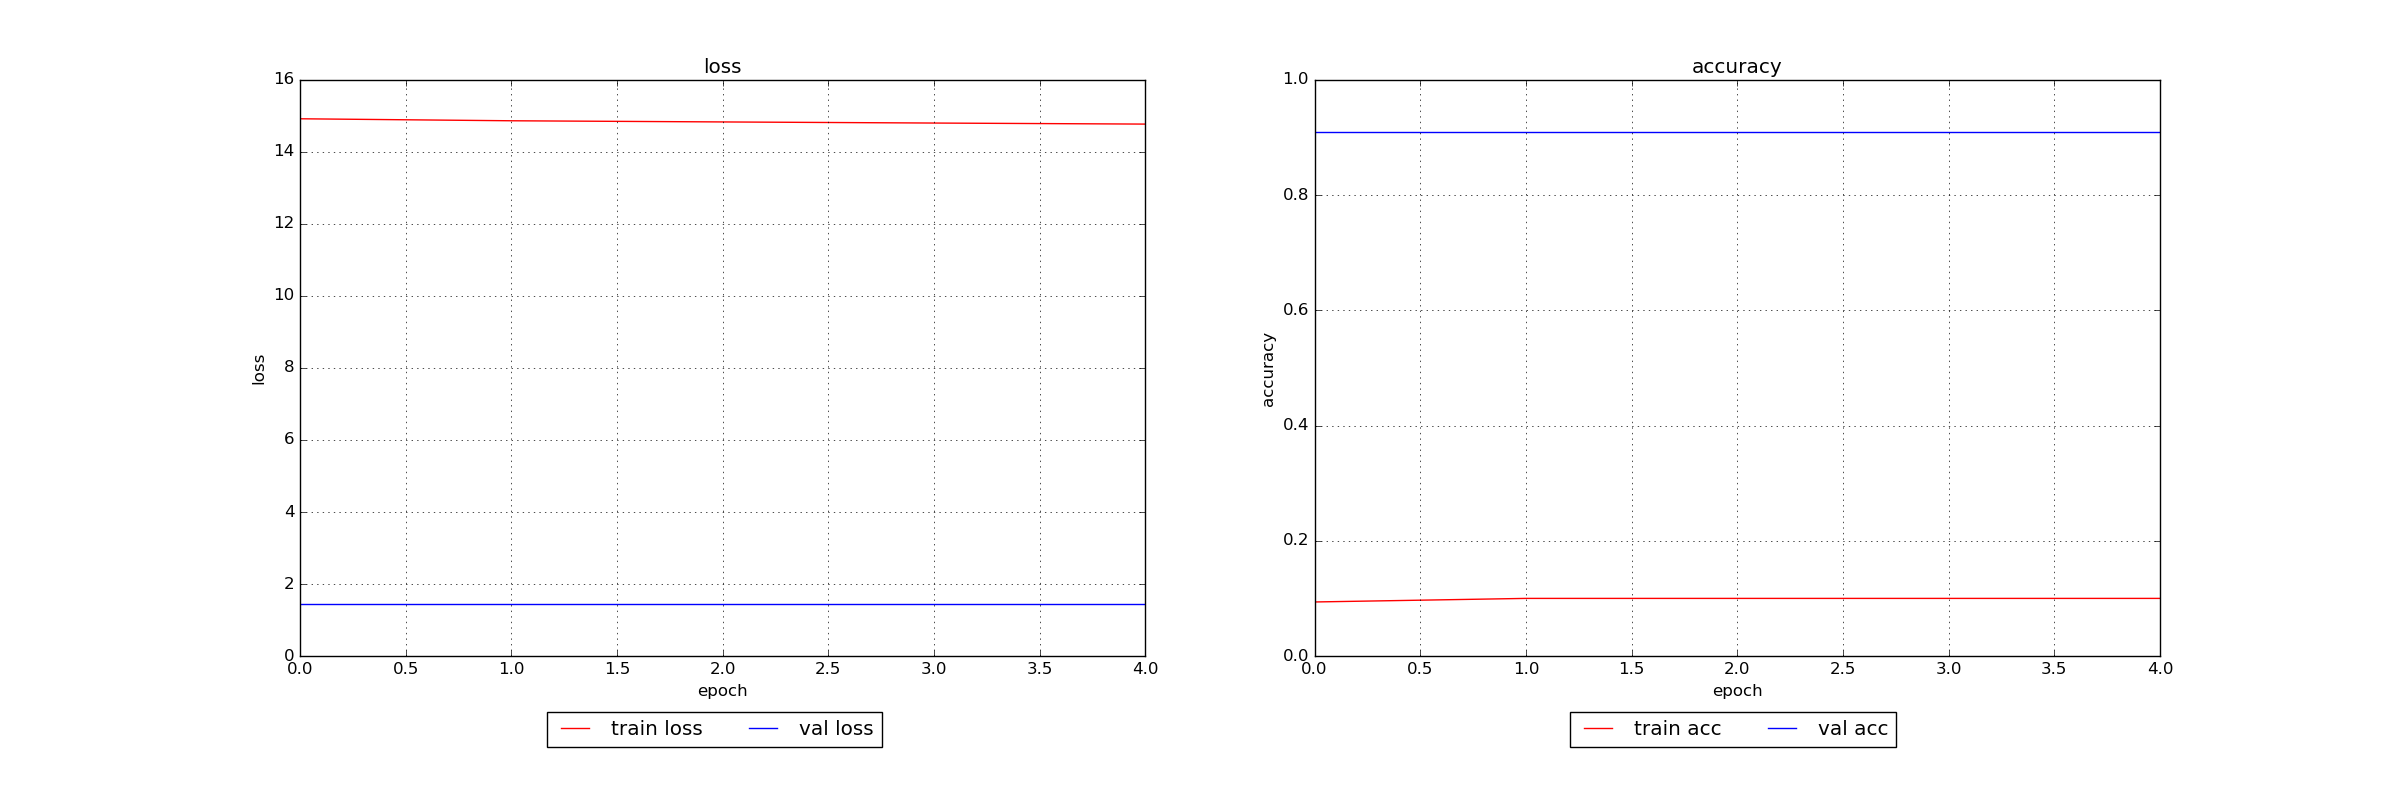
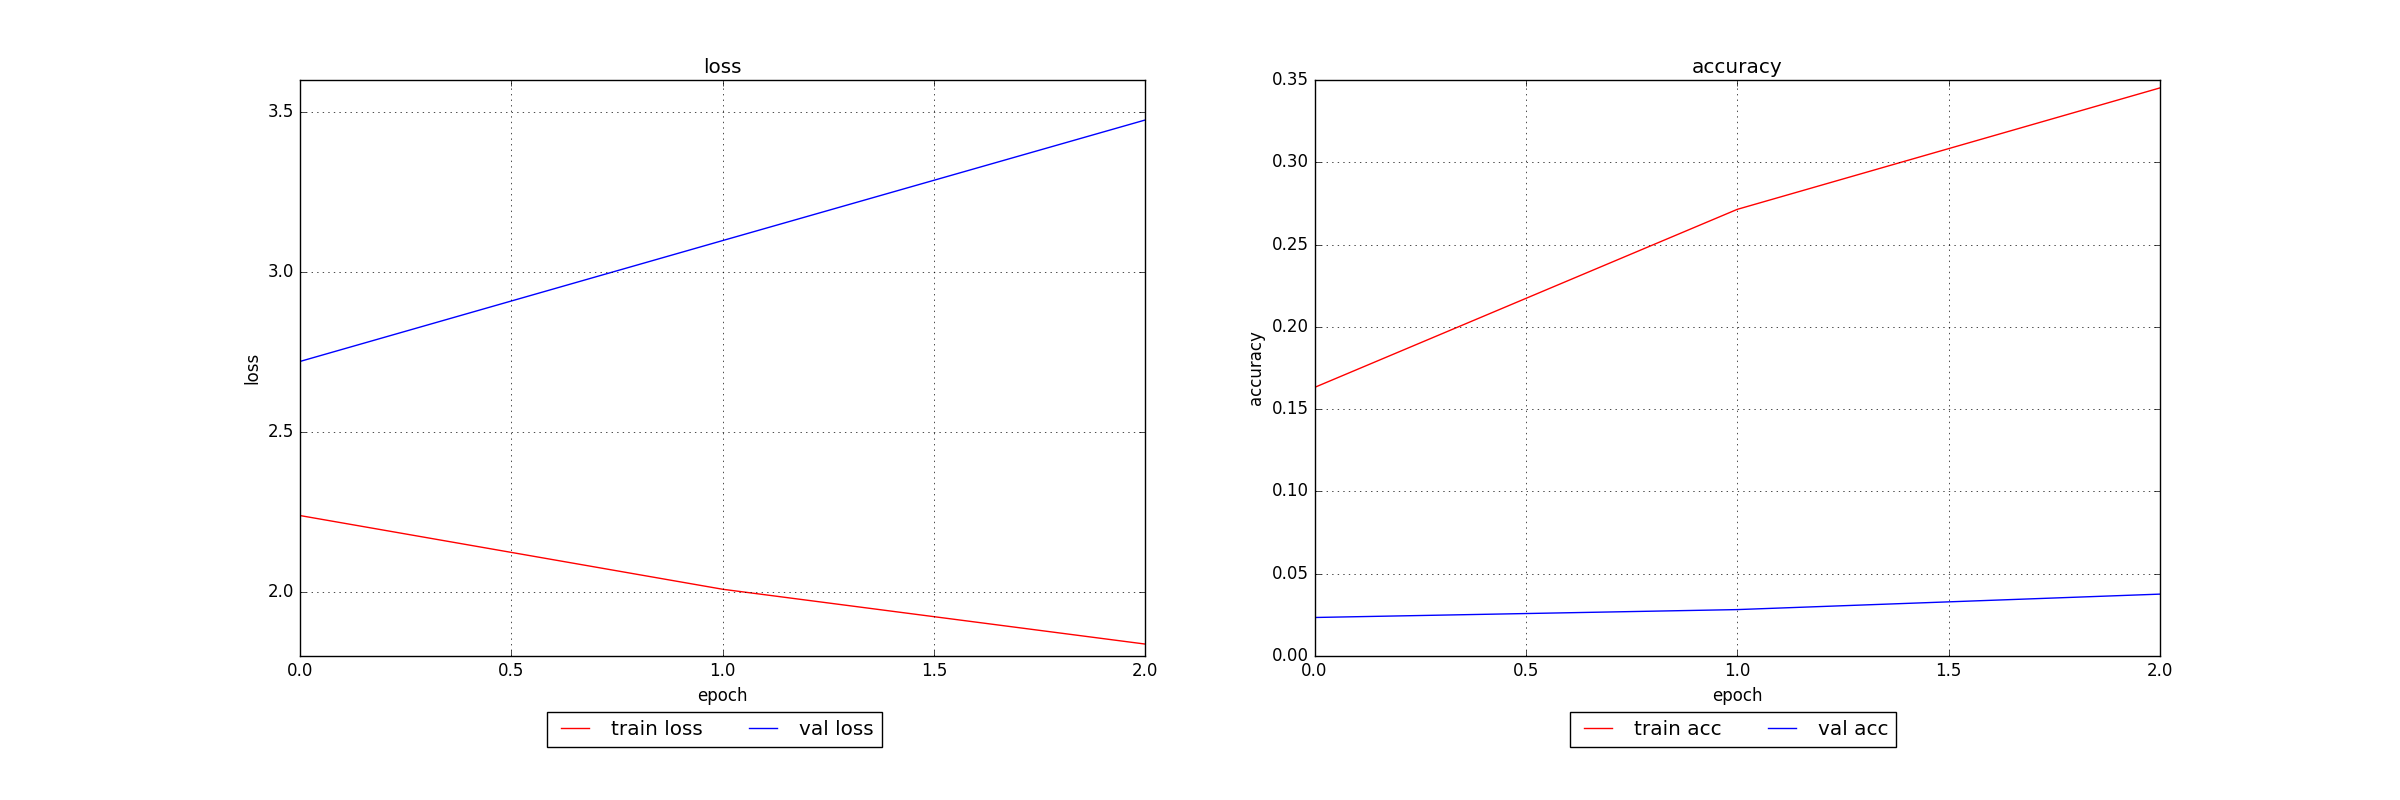
not using transpose

diff --git a/tiny_imagenet_classifier.py b/tiny_imagenet_classifier.py
@@ -69,7 +69,12 @@ for loss_function in loss_functions:
                 if len(np.shape(X))==2:
                     X_train[i]=np.array([X,X,X])
                 else:
-                    X_train[i]=np.transpose(X,(2,0,1))
+                    # print(X.shape)
+                    # p = 0
+                    for d in range(3):
+                        for w in range(64):
+                            for h in range(64):
+                                X_train[i][d][w][h] = X[w][h][d]
                 y_train[i]=j
                 i+=1
             # print('finished loading ' + str(j) + ' out of ' + str(classes_to_load) + ' classes')
@@ -98,7 +103,11 @@ for loss_function in loss_functions:
                 if len(np.shape(X))==2:
                     X_test[i]=np.array([X,X,X])
                 else:
-                    X_test[i]=np.transpose(X,(2,0,1))
+                    for d in range(3):
+                        for w in range(64):
+                            for h in range(64):
+                                X_test[i][d][w][h] = X[w][h][d]
+
                 y_test[i]=imagenetClass2TempIndex[val_annotations_map[sChild]]
                 i+=1
             else:
@@ -144,97 +153,97 @@ for loss_function in loss_functions:
 
         model = Sequential()
 # ======================
-        # model.add(Convolution2D(64, 3, 3, border_mode='same',
-        #                         input_shape=(3, img_rows, img_cols)))
-        # model.add(Activation('relu'))
-        # model.add(Convolution2D(64, 3, 3))
-        # model.add(Activation('relu'))
-        # model.add(MaxPooling2D(pool_size=(2, 2)))
-        # model.add(Dropout(0.25))
+        model.add(Convolution2D(64, 3, 3, border_mode='same',
+                                input_shape=(3, img_rows, img_cols)))
+        model.add(Activation('relu'))
+        model.add(Convolution2D(64, 3, 3))
+        model.add(Activation('relu'))
+        model.add(MaxPooling2D(pool_size=(2, 2)))
+        model.add(Dropout(0.25))
 
-        # model.add(Convolution2D(64, 3, 3, border_mode='same'))
-        # model.add(Activation('relu'))
-        # model.add(Convolution2D(64, 3, 3))
-        # model.add(Activation('relu'))
-        # model.add(MaxPooling2D(pool_size=(2, 2)))
-        # model.add(Dropout(0.25))
+        model.add(Convolution2D(64, 3, 3, border_mode='same'))
+        model.add(Activation('relu'))
+        model.add(Convolution2D(64, 3, 3))
+        model.add(Activation('relu'))
+        model.add(MaxPooling2D(pool_size=(2, 2)))
+        model.add(Dropout(0.25))
 
-        # model.add(Flatten())
-        # model.add(Dense(512))
-        # model.add(Activation('relu'))
-        # model.add(Dropout(0.5))
-        # model.add(Dense(nb_classes))
-        # model.add(Activation('softmax'))
+        model.add(Flatten())
+        model.add(Dense(512))
+        model.add(Activation('relu'))
+        model.add(Dropout(0.5))
+        model.add(Dense(nb_classes))
+        model.add(Activation('softmax'))
 # ======================
 
 
-        #conv-spatial batch norm - relu #1 
-        model.add(ZeroPadding2D((2,2),input_shape=(3,64,64)))
-        model.add(Convolution2D(64,5,5,subsample=(2,2),W_regularizer=WeightRegularizer(l1=1e-7,l2=1e-7)))
-        model.add(BatchNormalization(epsilon=1e-06, mode=0, axis=1, momentum=0.9))
-        model.add(Activation('relu')) 
+        # #conv-spatial batch norm - relu #1 
+        # model.add(ZeroPadding2D((2,2),input_shape=(3,64,64)))
+        # model.add(Convolution2D(64,5,5,subsample=(2,2),W_regularizer=WeightRegularizer(l1=1e-7,l2=1e-7)))
+        # model.add(BatchNormalization(epsilon=1e-06, mode=0, axis=1, momentum=0.9))
+        # model.add(Activation('relu')) 
 
-        #conv-spatial batch norm - relu #2
-        model.add(ZeroPadding2D((1,1)))
-        model.add(Convolution2D(64,3,3,subsample=(1,1)))
-        model.add(BatchNormalization(epsilon=1e-06, mode=0, axis=1, momentum=0.9))
-        model.add(Activation('relu')) 
+        # #conv-spatial batch norm - relu #2
+        # model.add(ZeroPadding2D((1,1)))
+        # model.add(Convolution2D(64,3,3,subsample=(1,1)))
+        # model.add(BatchNormalization(epsilon=1e-06, mode=0, axis=1, momentum=0.9))
+        # model.add(Activation('relu')) 
 
-        #conv-spatial batch norm - relu #3
-        model.add(ZeroPadding2D((1,1)))
-        model.add(Convolution2D(128,3,3,subsample=(2,2)))
-        model.add(BatchNormalization(epsilon=1e-06, mode=0, axis=1, momentum=0.9))
-        model.add(Activation('relu')) 
-        model.add(Dropout(0.25)) 
+        # #conv-spatial batch norm - relu #3
+        # model.add(ZeroPadding2D((1,1)))
+        # model.add(Convolution2D(128,3,3,subsample=(2,2)))
+        # model.add(BatchNormalization(epsilon=1e-06, mode=0, axis=1, momentum=0.9))
+        # model.add(Activation('relu')) 
+        # model.add(Dropout(0.25)) 
 
-        #conv-spatial batch norm - relu #4
-        model.add(ZeroPadding2D((1,1)))
-        model.add(Convolution2D(128,3,3,subsample=(1,1)))
-        model.add(BatchNormalization(epsilon=1e-06, mode=0, axis=1, momentum=0.9))
-        model.add(Activation('relu')) 
+        # #conv-spatial batch norm - relu #4
+        # model.add(ZeroPadding2D((1,1)))
+        # model.add(Convolution2D(128,3,3,subsample=(1,1)))
+        # model.add(BatchNormalization(epsilon=1e-06, mode=0, axis=1, momentum=0.9))
+        # model.add(Activation('relu')) 
 
-        #conv-spatial batch norm - relu #5
-        model.add(ZeroPadding2D((1,1)))
-        model.add(Convolution2D(256,3,3,subsample=(2,2)))
-        model.add(BatchNormalization(epsilon=1e-06, mode=0, axis=1, momentum=0.9))
-        model.add(Activation('relu')) 
+        # #conv-spatial batch norm - relu #5
+        # model.add(ZeroPadding2D((1,1)))
+        # model.add(Convolution2D(256,3,3,subsample=(2,2)))
+        # model.add(BatchNormalization(epsilon=1e-06, mode=0, axis=1, momentum=0.9))
+        # model.add(Activation('relu')) 
 
-        #conv-spatial batch norm - relu #6
-        model.add(ZeroPadding2D((1,1)))
-        model.add(Convolution2D(256,3,3,subsample=(1,1)))
-        model.add(BatchNormalization(epsilon=1e-06, mode=0, axis=1, momentum=0.9))
-        model.add(Activation('relu')) 
-        model.add(Dropout(0.25))
+        # #conv-spatial batch norm - relu #6
+        # model.add(ZeroPadding2D((1,1)))
+        # model.add(Convolution2D(256,3,3,subsample=(1,1)))
+        # model.add(BatchNormalization(epsilon=1e-06, mode=0, axis=1, momentum=0.9))
+        # model.add(Activation('relu')) 
+        # model.add(Dropout(0.25))
 
-        #conv-spatial batch norm - relu #7
-        model.add(ZeroPadding2D((1,1)))
-        model.add(Convolution2D(512,3,3,subsample=(2,2)))
-        model.add(BatchNormalization(epsilon=1e-06, mode=0, axis=1, momentum=0.9))
-        model.add(Activation('relu')) 
+        # #conv-spatial batch norm - relu #7
+        # model.add(ZeroPadding2D((1,1)))
+        # model.add(Convolution2D(512,3,3,subsample=(2,2)))
+        # model.add(BatchNormalization(epsilon=1e-06, mode=0, axis=1, momentum=0.9))
+        # model.add(Activation('relu')) 
 
-        #conv-spatial batch norm - relu #8
-        model.add(ZeroPadding2D((1,1)))
-        model.add(Convolution2D(512,3,3,subsample=(1,1)))
-        model.add(BatchNormalization(epsilon=1e-06, mode=0, axis=1, momentum=0.9))
-        model.add(Activation('relu')) 
+        # #conv-spatial batch norm - relu #8
+        # model.add(ZeroPadding2D((1,1)))
+        # model.add(Convolution2D(512,3,3,subsample=(1,1)))
+        # model.add(BatchNormalization(epsilon=1e-06, mode=0, axis=1, momentum=0.9))
+        # model.add(Activation('relu')) 
         
 
-        #conv-spatial batch norm - relu #9
-        model.add(ZeroPadding2D((1,1)))
-        model.add(Convolution2D(1024,3,3,subsample=(2,2)))
-        model.add(BatchNormalization(epsilon=1e-06, mode=0, axis=1, momentum=0.9))
-        model.add(Activation('relu'))
-        model.add(Dropout(0.25)) 
+        # #conv-spatial batch norm - relu #9
+        # model.add(ZeroPadding2D((1,1)))
+        # model.add(Convolution2D(1024,3,3,subsample=(2,2)))
+        # model.add(BatchNormalization(epsilon=1e-06, mode=0, axis=1, momentum=0.9))
+        # model.add(Activation('relu'))
+        # model.add(Dropout(0.25)) 
 
-        #Affine-spatial batch norm -relu #10 
-        model.add(Flatten())
-        model.add(Dense(512,W_regularizer=WeightRegularizer(l1=1e-5,l2=1e-5)))
-        model.add(BatchNormalization(epsilon=1e-06, mode=0, axis=1, momentum=0.9))
-        model.add(Activation('relu')) 
-        model.add(Dropout(0.5)) 
+        # #Affine-spatial batch norm -relu #10 
+        # model.add(Flatten())
+        # model.add(Dense(512,W_regularizer=WeightRegularizer(l1=1e-5,l2=1e-5)))
+        # model.add(BatchNormalization(epsilon=1e-06, mode=0, axis=1, momentum=0.9))
+        # model.add(Activation('relu')) 
+        # model.add(Dropout(0.5)) 
 
-        #affine layer w/ softmax activation added 
-        model.add(Dense(num_classes,activation='softmax',W_regularizer=WeightRegularizer(l1=1e-5,l2=1e-5)))#pretrained weights assume only 100 outputs, we need to train this layer from scratch
+        # #affine layer w/ softmax activation added 
+        # model.add(Dense(num_classes,activation='softmax',W_regularizer=WeightRegularizer(l1=1e-5,l2=1e-5)))#pretrained weights assume only 100 outputs, we need to train this layer from scratch
 
         # if loss_function is 'categorical_crossentropy':
        # model.add(Activation('softmax'))
